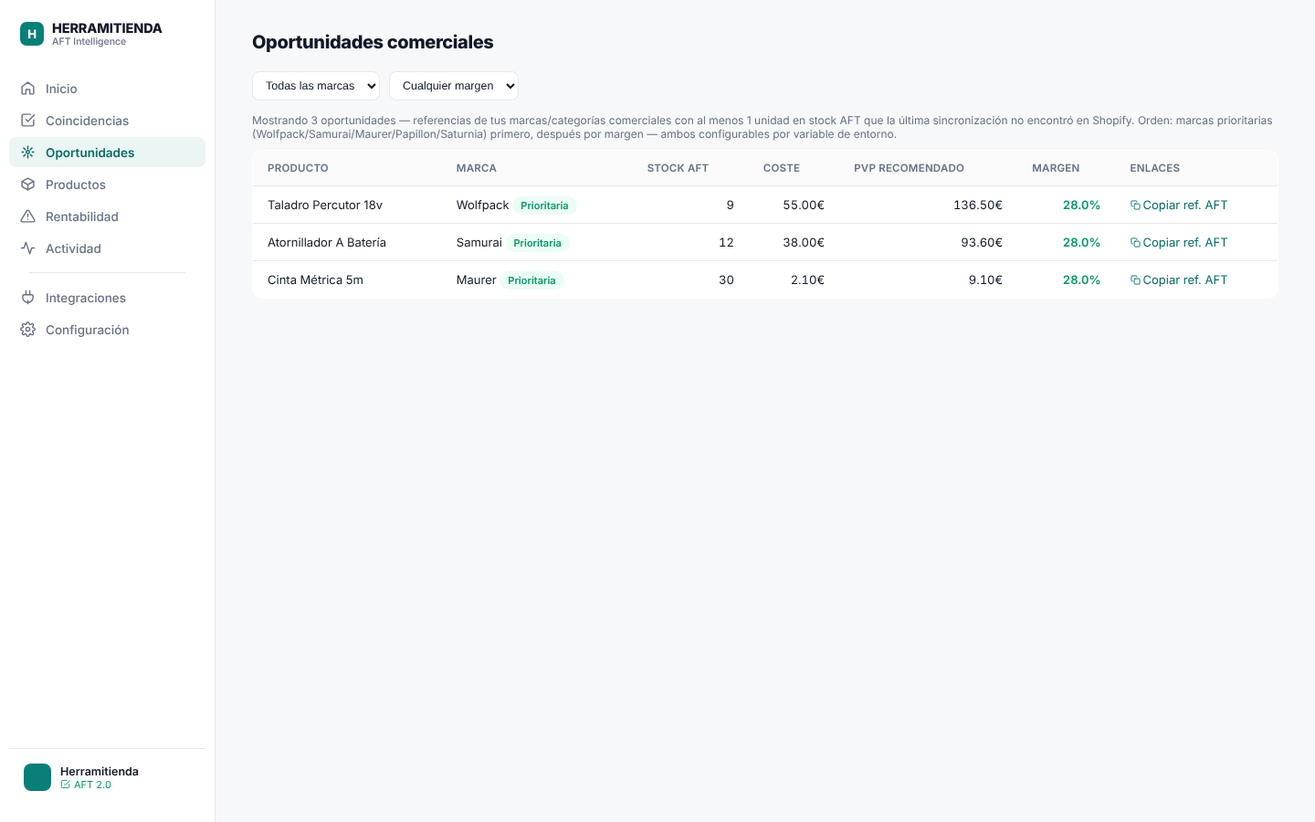
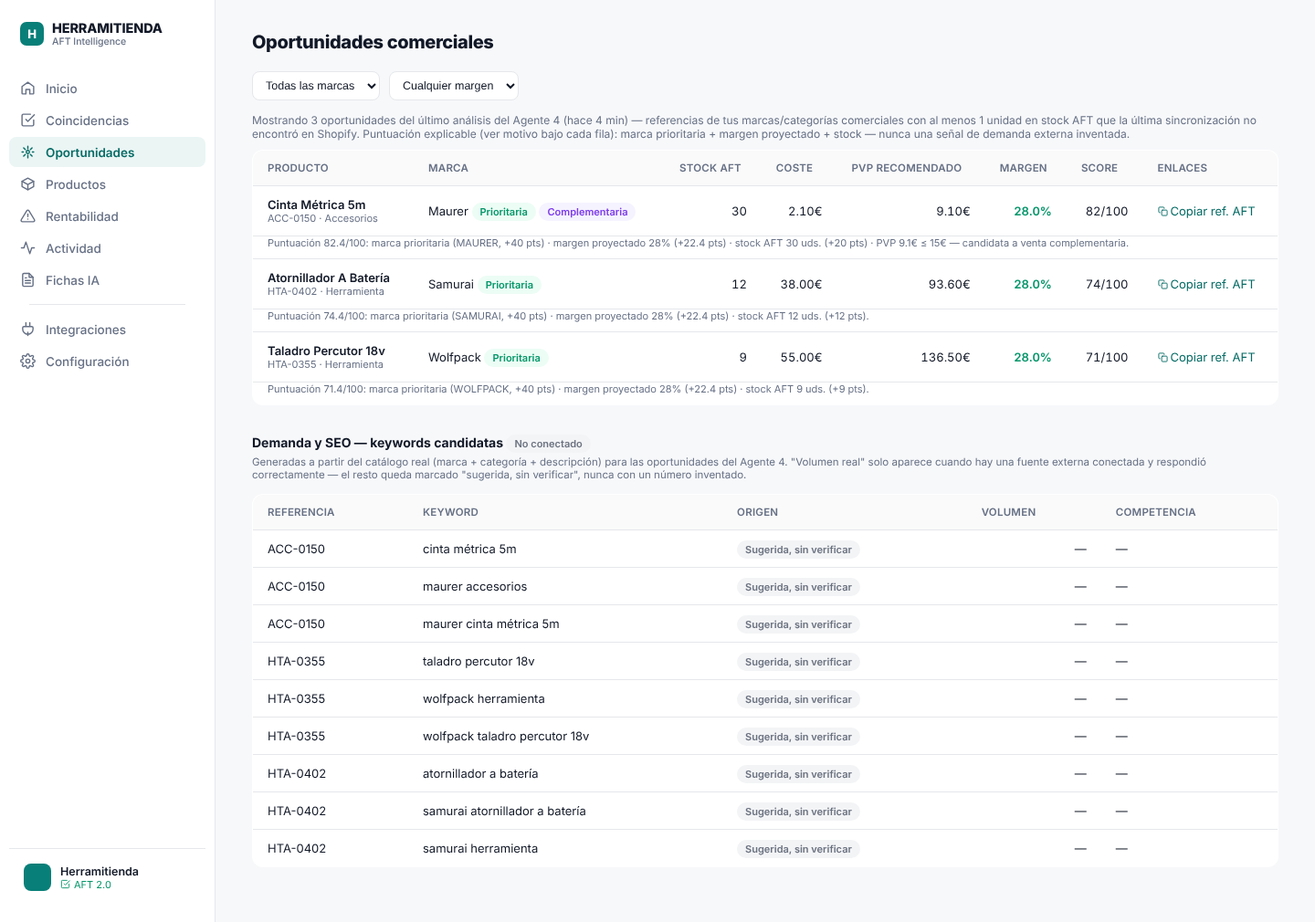
README actualizado y capturas refrescadas para los Agentes 4, 5 y 6
Documenta la entrega de inteligencia comercial (oportunidades, demanda/SEO,
fichas con IA) como agentes independientes y auditables, recuperando la
inteligencia de la primera versión del panel sin volver a su diseño:

- Sección 2: nuevas filas de estado verificable para los tres agentes y el
  pipeline extendido (ahora 7 etapas).
- Sección 3: diagrama y candado compartido actualizados a los 8 procesos
  reales (antes 5).
- Sección 4: Oportunidades deja de describirse como "reglas integradas en
  el agente 2a" (ya no es así) y pasa a tabla + detalle propio, igual que
  Demanda/SEO y Fichas con IA (nuevas), incluyendo su comportamiento
  explícito "No conectado" sin DataForSEO/Anthropic y la revisión humana
  obligatoria de fichas (nunca publica en Shopify).
- Sección 6: nuevas filas de QA funcional para los tres agentes (puntuación
  explicable, degradación de Demanda sin fuente real, los 5 escenarios de
  Fichas IA incluyendo aprobar/rechazar/editar).
- Sección 7/9: nueva captura de Fichas IA, pies de foto actualizados,
  nuevos endpoints (oportunidades/demanda/fichas-run + aprobar/rechazar/
  editar) y "Límites actuales" honesto sobre DataForSEO/Anthropic sin
  validar contra cuentas reales.

Además, corrige el estado vacío de la página Fichas IA en
buildDashboardHtml.js: cuando la ejecución terminó en "no_conectado" con
candidatos reales encontrados, el mensaje ahora dice explícitamente que
falta el proveedor de IA (antes daba a entender, de forma engañosa, que
[…]

diff --git a/src/buildDashboardHtml.js b/src/buildDashboardHtml.js
@@ -371,10 +371,13 @@ function filaFicha(f){
   '</div>';
 }
 const fichasBorradoresSeguro = fichasBorradores || [];
+const fichasEmptyMotivo = ultimaFichas && ultimaFichas.status === 'no_conectado'
+  ? 'El último análisis encontró ' + (ultimaFichas.total_candidatos || 0) + ' candidato(s) del Agente 4, pero no generó ningún borrador: no hay proveedor de IA conectado (ANTHROPIC_API_KEY). Nunca se presenta una plantilla como si fuera una ficha generada por IA.'
+  : 'El último análisis no generó ningún borrador (sin oportunidades del Agente 4 pendientes de ficha, o todas ya tienen una en revisión/aprobada).';
 const fichasHtml = ultimaFichas
   ? (fichasBorradoresSeguro.length
       ? fichasBorradoresSeguro.map(filaFicha).join('')
-      : '<div class="empty-state">El último análisis no generó ningún borrador (sin oportunidades del Agente 4 pendientes de ficha, o todas ya tienen una en revisión/aprobada).</div>')
+      : '<div class="empty-state">' + esc(fichasEmptyMotivo) + '</div>')
   : '<div class="empty-state">El agente de fichas todavía no se ha ejecutado. Lánzalo desde Integraciones.</div>';
 
 // --- Página Rentabilidad (prioridad 1): coste desglosado, transporte al

diff --git a/README.md b/README.md
@@ -15,6 +15,8 @@ Herramitienda vende en Shopify un catálogo que depende en parte de un proveedor
 
 **La solución**: una aplicación independiente, con su propia base de datos — nunca comparte infraestructura con AXION ni con el n8n compartido — que importa el catálogo de AFT, lee el catálogo completo de Shopify (no una muestra), cruza ambos de forma fiable (EAN, con SKU como respaldo inequívoco) y calcula el coste y el margen real de cada referencia con las reglas comerciales confirmadas por el negocio. Hacia Shopify, el sistema es de solo lectura salvo por un único camino de escritura, deliberadamente aislado en un solo archivo y **desactivado por defecto (modo simulación)**: la reposición automática de stock, que nunca toca precios ni costes — ver sección 4. En todo momento se muestra el origen de cada dato y se marca explícitamente lo que todavía no está confirmado, validado o conectado.
 
+Sobre esa misma base se ha recuperado la inteligencia comercial que existía en la primera versión del panel (oportunidades, demanda/SEO, fichas de producto con IA) — pero reconstruida como tres agentes independientes, auditables y nunca especulativos, en vez de las reglas inline y el score con valor por defecto que usaba el sistema original. Cada uno de los tres, si le falta una integración externa autorizada, declara explícitamente **"No conectado"** en vez de simular un resultado — ver sección 4.
+
 ## 2. Resultados verificables del proyecto
 
 Para ser honesto sobre qué está probado en producción real y qué está validado en banco de pruebas (nunca se ha lanzado un proceso real sin autorización explícita, por decisión de diseño):
@@ -25,7 +27,10 @@ Para ser honesto sobre qué está probado en producción real y qué está valid
 | Comparación de inventario Shopify ↔ AFT (solo lectura) | **En producción** | Ejecución real completada sobre el catálogo completo de Shopify |
 | Reposición automática de stock (único camino de escritura hacia Shopify) | **Implementado y validado en banco de pruebas — modo simulación (dry run)** | Postgres local + Shopify mockeado (nunca la tienda real) — sin SHOPIFY_WRITE_ENABLED ni el scope write_inventory concedido, no puede escribir nada aunque se ejecute |
 | Agente de rentabilidad (coste, portes reales, alertas, recomendaciones) | **Implementado y validado en banco de pruebas** | Postgres local + datos sintéticos — pendiente de su primera ejecución real (requiere autorización explícita) |
-| Pipeline automático (AFT → Shopify → Reposición → Rentabilidad) | **Implementado y validado** | Prueba de extremo a extremo local (servidor completo + llamadas HTTP reales) |
+| Agente de oportunidades comerciales (ranking explicable, persistido) | **Implementado y validado en banco de pruebas** | Postgres local + datos sintéticos — score, motivo y guardado en `oportunidades_resultados` verificados |
+| Agente de demanda y SEO | **Implementado y validado — sin fuente real conectada** | Postgres local; probado sin DataForSEO (candidatos "sin verificar"), con DataForSEO mockeado (éxito) y con fallo simulado (degradación a "sin verificar") — nunca contra una cuenta real |
+| Agente de fichas de producto con IA | **Implementado y validado — sin proveedor de IA conectado** | Postgres local; probado sin Anthropic (cero borradores), con Anthropic mockeado (generación + validación de calidad) y el ciclo Aprobar/Rechazar/Editar — nunca contra la API real |
+| Pipeline automático (AFT → Shopify → Reposición → Rentabilidad → Oportunidades → Demanda/SEO → Fichas IA) | **Implementado y validado** | Prueba de extremo a extremo local (servidor completo + llamadas HTTP reales) |
 | Programación diaria (Europe/Madrid) | **Implementado y validado, desactivado por defecto** | Lógica de fecha/hora y reintentos probada contra Postgres local (ver sección 6) |
 | Enlaces de producto (Shopify/AFT) | **Corregido y validado** | Antes enlazaban con el ID de variante, no de producto (daban página en blanco); corregido y verificado en escritorio y móvil |
 
@@ -43,12 +48,15 @@ Esta tabla es la misma distinción que hace el propio panel en su página "Integ
 └───────────┬───────────┘        └─────────────┬─────────────┘
             │ solo lectura                      │ solo lectura
             ▼                                    ▼
-      ┌─────────────────────────────────────────────┐
-      │ src/sync.js · src/reposicion.js · rentabilidad │
-      │   importación · matching EAN/SKU · coste      │
-      │   real (IVA/recargo/portes) · rentabilidad     │
-      └───────────────────────┬───────────────────────┘
-                               ▼
+      ┌───────────────────────────────────────────────────┐
+      │ src/sync.js · src/reposicion.js · src/rentabilidad.js │
+      │ src/oportunidades.js · src/demanda.js · src/fichasIa.js │
+      │   importación · matching EAN/SKU · coste real          │
+      │   (IVA/recargo/portes) · rentabilidad · oportunidades  │
+      │   · demanda/SEO (DataForSEO opcional) · fichas con IA  │
+      │   (Anthropic opcional, revisión humana obligatoria)    │
+      └───────────────────────────┬───────────────────────────┘
+                                    ▼
                  ┌─────────────────────────┐
                  │   hmt-db (PostgreSQL)     │
                  │   independiente de n8n     │
@@ -75,7 +83,7 @@ por defecto) se detalla en la sección 4, no en este diagrama.*
 - **Base de datos propia** (`hmt-db`), separada de la del n8n compartido: ni comparte esquema ni puede verse afectada por cambios en otros workflows.
 - **Un único camino de escritura hacia Shopify, aislado y desactivado por defecto.** `src/shopifyClient.js` sigue siendo 100% lectura (paginación completa de variantes, búsqueda por EAN/SKU, listado de productos) — ninguna mutación vive ahí. Toda la capacidad real de escritura del repositorio está en un solo archivo pequeño, `src/shopifyWriteClient.js`, usado exclusivamente por la reposición automática de stock (Agente 2, paso 2): nunca se llama sin que `SHOPIFY_WRITE_ENABLED=true` esté definido explícitamente **y** la app tenga el scope `write_inventory` concedido (comprobado en cada ejecución, nunca asumido). Mientras cualquiera de las dos condiciones no se cumpla, ese paso solo simula la escritura y la registra — nunca llama a Shopify para escribir de verdad. Ni ese ni ningún otro camino del código toca precios ni costes.
 - **Trabajo en segundo plano con recuperación**: la importación AFT y la comparación con Shopify devuelven `202` inmediato y procesan en segundo plano, con progreso real consultable por *polling* — pensado para catálogos de miles de referencias sin depender de una única petición HTTP larga ni perder el progreso si el servicio se reinicia.
-- **Candado compartido entre los cinco procesos** (importación AFT, comparación, reposición, rentabilidad, pipeline — `haySolapamiento()`): lanzar cualquiera de ellos falla con `409` si otro sigue en marcha — nunca se solapan, y un proceso `running` más antiguo de 2 horas se trata como interrumpido (p. ej. por un reinicio) y se desbloquea solo.
+- **Candado compartido entre los ocho procesos** (importación AFT, comparación, reposición, rentabilidad, oportunidades, demanda, fichas IA, pipeline — `haySolapamiento()`): lanzar cualquiera de ellos falla con `409` si otro sigue en marcha — nunca se solapan, y un proceso `running` más antiguo de 2 horas se trata como interrumpido (p. ej. por un reinicio) y se desbloquea solo.
 
 ## 4. Agentes implementados y estado real de cada uno
 
@@ -87,11 +95,35 @@ Para evitar cualquier ambigüedad sobre qué es autónomo y qué no:
 | 2a | **Comparación de inventario Shopify ↔ AFT** | Sí — proceso propio (`sync_runs`), **solo lectura** hacia Shopify | Operativo, en producción |
 | 2b | **Reposición automática de stock** (paso obligatorio del Agente 2, justo después de 2a) | Sí — proceso propio (`reposicion_runs` / `reposicion_eventos`), con el **único camino de escritura real hacia Shopify de todo el repositorio** | Implementado y validado — **en modo simulación (dry run) hasta autorización expresa**, ver detalle abajo |
 | 3 | **Rentabilidad** | Sí — proceso propio (`rentabilidad_runs`), solo lee `hmt-db` (no vuelve a llamar a AFT ni a Shopify) | Implementado y validado; pendiente de primera ejecución real |
-| 4 | **Oportunidades comerciales** | **No es un agente independiente.** Es un conjunto de reglas de negocio (marca prioritaria, categoría, stock mínimo, margen) aplicadas **dentro** de la comparación Shopify ↔ AFT, mostradas en su propia pestaña del dashboard | Reglas operativas, integradas en el agente 2a |
-| 5 | **Pipeline completo** | Es el **orquestador** de 1 → 2a → 2b → 3 en secuencia, no un agente nuevo | Implementado y validado |
-| 6 | **Inteligencia artificial generativa** (fichas automáticas, recomendaciones de SEO) | No implementada | **No conectada** — no existe ningún cliente de IA en este repositorio; el panel lo marca explícitamente como "No conectado" en vez de simular resultados |
+| 4 | **Oportunidades comerciales** | Sí — proceso propio (`oportunidades_runs` / `oportunidades_resultados`), **solo lee `hmt-db`**, no vuelve a llamar a AFT ni a Shopify | Implementado y validado — ranking explicable, con historial |
+| 5 | **Demanda y SEO** | Sí — proceso propio (`demanda_runs` / `demanda_resultados`), consume las oportunidades del Agente 4 y, si hay credenciales, DataForSEO | Implementado y validado — **"No conectado" por defecto** (sin DataForSEO), ver detalle abajo |
+| 6 | **Fichas de producto con IA** | Sí — proceso propio (`fichas_runs` / `fichas_borradores`), consume AFT + oportunidades del Agente 4 y, si hay credencial, la API de Anthropic | Implementado y validado — **"No conectado" por defecto** (sin API key), nunca publica en Shopify, ver detalle abajo |
+| 7 | **Pipeline completo** | Es el **orquestador** de 1 → 2a → 2b → 3 → 4 → 5 → 6 en secuencia, no un agente nuevo | Implementado y validado |
 
-La página **Integraciones** del dashboard refleja esta misma tabla en tiempo real: los agentes 1, 2a, 2b, 3 y el pipeline tienen botón de ejecución propio; la IA aparece en una lista aparte, marcada "No conectado".
+La página **Integraciones** del dashboard refleja esta misma tabla en tiempo real: los siete procesos (1, 2a, 2b, 3, 4, 5, 6) y el pipeline tienen botón de ejecución propio; demanda y fichas IA muestran además un badge "No conectado" cuando no hay integración externa configurada.
+
+**Oportunidades comerciales (4), en detalle** — `src/oportunidades.js`, invocado manualmente (`POST /api/oportunidades-run`), desde el pipeline o desde Integraciones:
+
+- Universo: referencias de AFT marcadas `es_oportunidad_comercial` que **todavía no están en Shopify** (`shopify_match.estado = 'no_encontrado'`) y con stock de AFT por encima del mínimo configurado — nunca una referencia ya publicada.
+- Marcas prioritarias (Wolfpack, Samurai, Maurer, Papillon, Saturnia) y categoría se consideran junto con el margen proyectado (PVP de AFT, mismo cálculo de coste que rentabilidad), el stock disponible y el PVP para detectar candidatas a venta complementaria (umbral compartido con el Agente 3).
+- **Puntuación explicable, nunca una caja negra**: `calcularOportunidad()` devuelve un `score` de 0 a 100 y un `motivo` en texto, construido concatenando literalmente la contribución de cada componente (p. ej. *"Puntuación 82/100: marca prioritaria (MAURER, +40 pts) · margen proyectado 45% (+36 pts) · stock AFT 25 uds. (+20 pts)."*). Pesos y umbrales son variables de entorno (`OPORTUNIDADES_*`), nunca constantes ocultas.
+- Resultado completo (ref, score, motivo, marca prioritaria, candidata complementaria, fecha) persistido en `oportunidades_resultados`, con historial de ejecuciones en `oportunidades_runs`.
+
+**Demanda y SEO (5), en detalle** — `src/demanda.js`, invocado manualmente (`POST /api/demanda-run`), desde el pipeline o desde Integraciones:
+
+- Genera hasta 3 keywords candidatas por referencia (marca+categoría, descripción, marca+descripción) a partir de las oportunidades del Agente 4 — **nunca a partir de una API externa**, siempre del catálogo real.
+- Sin `DATAFORSEO_LOGIN`/`DATAFORSEO_PASSWORD`: la ejecución termina con `status = 'no_conectado'` y **todas** las keywords quedan marcadas "sugerida, sin verificar", con volumen y competencia en `NULL` — nunca un número inventado.
+- Con credenciales: consulta volumen y competencia reales contra DataForSEO; si la llamada falla, degrada con gracia (todas las keywords vuelven a "sin verificar" y el error queda registrado), nunca deja una mezcla ambigua entre dato real y simulado.
+- Tope de coste por ejecución configurable (`DEMANDA_MAX_KEYWORDS`, 50 por defecto). Resultado persistido en `demanda_resultados`, con el origen (`catalogo` vs `dataforseo`) y si está `verificado` siempre explícitos.
+
+**Fichas de producto con IA (6), en detalle** — `src/fichasIa.js`, invocado manualmente (`POST /api/fichas-run`), desde el pipeline o desde Integraciones:
+
+- Universo: oportunidades del Agente 4 que todavía no tienen una ficha `pendiente` o `aprobado` — una ficha `rechazado` sí vuelve a ser candidata en la siguiente ejecución, para no bloquear una referencia por un borrador descartado.
+- Sin `ANTHROPIC_API_KEY`: la ejecución termina con `status = 'no_conectado'` y **genera cero borradores** — nunca una plantilla rellenada a mano presentada como si fuera una ficha generada por IA.
+- Con credencial: llama a la API de Mensajes de Anthropic (modelo configurable, `FICHAS_MAX_TOKENS` acotado) pidiendo título, descripción, atributos y metadatos SEO en JSON estricto.
+- **Validación de calidad antes de guardar, nunca en silencio**: `validarCalidad()` comprueba longitud de título/descripción/metadatos, presencia de la marca, keywords SEO no vacías y ausencia de marcadores de relleno (`[...]`, `TODO`, `lorem ipsum`). Un borrador que no pasa se guarda igualmente (para revisión humana) pero queda marcado `calidad_validada = false` con el motivo exacto visible en el dashboard.
+- **Revisión humana obligatoria, nunca publicación automática**: desde el dashboard (`Aprobar` / `Rechazar` / `Editar`, `POST /api/fichas/:id/aprobar|rechazar|editar`) solo se actualiza `fichas_borradores` en PostgreSQL — en ningún punto de ese código existe una llamada a Shopify. Publicar en la tienda, si alguna vez se decide automatizarlo, sería un cambio futuro explícito y separado.
+- Tope de borradores por ejecución configurable (`FICHAS_MAX_POR_EJECUCION`, 10 por defecto).
 
 **Reposición automática de stock (2b), en detalle** — único camino de escritura de todo el repositorio, vive en `src/shopifyWriteClient.js` (nunca en `src/shopifyClient.js`, que sigue siendo 100% lectura) y solo lo invoca `src/reposicion.js`:
 
@@ -138,6 +170,9 @@ Ninguna corrección de esta fase se ha probado directamente contra producción. 
 | Reintento controlado del pipeline programado | Simulación de una ejecución de hoy en error → confirmado que el siguiente ciclo reintenta; una ejecución de hoy con éxito → confirmado que no se repite |
 | Enlaces de producto | Producto con varias variantes (debe enlazar al producto, no a la variante), fila sin ID de producto guardado (debe mostrar el aviso, no un enlace roto) |
 | Reposición automática de stock | Shopify y Shopify Write mockeados por completo (nunca la tienda real): confirmado que sin `SHOPIFY_WRITE_ENABLED` NUNCA se llama a la mutación; que con la variable activa pero sin el scope `write_inventory` tampoco se llama (se queda en dry run); que con ambas condiciones sí se llama, con la cantidad absoluta correcta (nunca sumada) y el valor de comparación (`changeFromQuantity`); que un error de Shopify en una referencia no aborta el resto del lote; que una verificación posterior incorrecta se marca aparte; y que las coincidencias ambiguas, bloqueadas o con stock de AFT negativo nunca se tocan ni aparecen en el historial |
+| Oportunidades comerciales (puntuación) | Casos de marca prioritaria vs no prioritaria, margen alto/bajo/en el umbral, stock alto/bajo — verificando que `score` y `motivo` coinciden exactamente con los componentes esperados, y que la candidata complementaria usa el mismo umbral de PVP que rentabilidad |
+| Demanda y SEO | Tres escenarios: sin `DATAFORSEO_LOGIN`/`DATAFORSEO_PASSWORD` (0 verificadas, todas "sin verificar"); con DataForSEO mockeado respondiendo con éxito (coincidencias marcadas `verificado=true` con número real); con DataForSEO mockeado fallando (degradación completa a "sin verificar" + `error_message` registrado) — más la ruta HTTP real de extremo a extremo |
+| Fichas de producto con IA | Cinco escenarios: sin `ANTHROPIC_API_KEY` (0 borradores, `status='no_conectado'`); `validarCalidad()` unitario (ficha válida, sin marca, título corto, con marcador de relleno, sin keywords); generación con Anthropic mockeado (nunca la API real) + validación de calidad; Aprobar/Rechazar/Editar (solo `UPDATE` en PostgreSQL, nunca Shopify); re-ejecución sin duplicar fichas `pendiente`/`aprobado` (una `rechazado` sí vuelve a ser candidata) — más la ruta HTTP real de extremo a extremo, incluida la comprobación de que el candado compartido bloquea con 409 otro agente mientras fichas está en curso |
 | Extremo a extremo | Servidor real arrancado en local, peticiones HTTP reales con Basic Auth a `/`, `/status`, `/healthz`, `POST /api/reposicion-run` y su `/estado` — incluida la comprobación de que el candado compartido bloquea con 409 otro agente mientras la reposición está en curso |
 
 **Decisiones técnicas que sostienen la fiabilidad de los datos**
@@ -156,7 +191,7 @@ Generadas en un entorno local con **datos sintéticos** (marcas, referencias y c
 **Coincidencias** — inventario AFT ↔ Shopify, solo coincidencias fiables:
 ![Coincidencias](docs/screenshots/02-coincidencias.png)
 
-**Oportunidades** — ranking comercial explicado, con copia de referencia AFT:
+**Oportunidades** — ranking comercial explicado del Agente 4 (score + motivo) y, debajo, las keywords candidatas del Agente 5 (siempre "sugerida, sin verificar" sin DataForSEO conectado):
 ![Oportunidades](docs/screenshots/03-oportunidades.png)
 
 **Productos** — catálogo completo de Shopify, proveedor identificado solo por coincidencia real, enlace directo al producto:
@@ -165,8 +200,11 @@ Generadas en un entorno local con **datos sintéticos** (marcas, referencias y c
 **Rentabilidad** — resumen ejecutivo, desglose de coste, pedido agrupado y recomendaciones de venta:
 ![Rentabilidad](docs/screenshots/05-rentabilidad.png)
 
-**Integraciones** — estado real de cada agente, con lo no conectado señalado aparte:
+**Integraciones** — estado real de cada agente (1 a 6) y del pipeline, con lo no conectado señalado aparte:
 ![Integraciones](docs/screenshots/06-integraciones.png)
+
+**Fichas IA** — borradores del Agente 6 con avisos de calidad y acciones Aprobar/Rechazar/Editar (ningún botón publica en Shopify):
+![Fichas IA](docs/screenshots/09-fichas-ia.png)
 
 **Vista móvil** (Inicio y Rentabilidad):
 
@@ -178,7 +216,7 @@ Este proyecto se ha construido con desarrollo asistido por IA (Claude Code) como
 
 - **Identificación del problema**: el diagnóstico de que el panel original mostraba funciones no conectadas como si lo estuvieran, y de que el cálculo de transporte no reflejaba los portes reales de AFT, partió de la revisión directa de los datos de producción — no de una suposición.
 - **Diseño de la solución y arquitectura funcional**: la decisión de separar esta aplicación del n8n compartido, de usar una base de datos propia, de mantener Shopify estrictamente en modo lectura, y de diseñar cada "agente" como un proceso auditable con su propio historial y candado compartido, son decisiones de arquitectura tomadas y validadas por quien lidera el proyecto.
-- **Reglas de negocio**: cada regla comercial implementada (portes reales por referencia, pedido agrupado sin tarifa inventada, marcas prioritarias, umbrales de margen y de producto complementario, qué hacer cuando un dato no está confirmado) viene de una decisión de negocio explícita, nunca de una suposición del asistente de IA.
+- **Reglas de negocio**: cada regla comercial implementada (portes reales por referencia, pedido agrupado sin tarifa inventada, marcas prioritarias, umbrales de margen y de producto complementario, qué hacer cuando un dato no está confirmado, cuándo un agente debe declararse "No conectado" en vez de simular un resultado) viene de una decisión de negocio explícita, nunca de una suposición del asistente de IA.
 - **Construcción asistida por IA**: la implementación del código, las migraciones de base de datos, los tests de validación y esta misma documentación se generaron con Claude Code, siempre a partir de instrucciones explícitas y revisadas antes de cada entrega.
 - **Integraciones**: AFT (API REST) y Shopify (Admin API GraphQL) se integraron respetando los límites de permisos y de *rate limiting* de cada API, con lectura paginada completa en vez de muestras parciales.
 - **Validación**: cada entrega se verificó contra una base de datos local con datos sintéticos antes de subirse — nunca se ha ejecutado un proceso real (importación, sincronización, rentabilidad o pipeline) sin autorización explícita, incluyendo la programación automática, que permanece desactivada por defecto.
@@ -202,7 +240,7 @@ Ver `.env.example` (plantilla sin valores reales). Se configuran directamente en
 
 ### Programación diaria automática — cómo activarla y comprobarla en Easypanel
 
-El pipeline completo (`POST /api/pipeline-run`, o el botón "Ejecutar pipeline completo" en Integraciones) encadena importación AFT → sincronización Shopify → reposición automática de stock (en dry run salvo autorización expresa, ver sección 4) → rentabilidad. **Desactivada por defecto** — sin la variable `PIPELINE_SCHEDULE_HORA_MADRID`, desplegar este código no ejecuta nada por sí solo.
+El pipeline completo (`POST /api/pipeline-run`, o el botón "Ejecutar pipeline completo" en Integraciones) encadena importación AFT → sincronización Shopify → reposición automática de stock (en dry run salvo autorización expresa, ver sección 4) → rentabilidad → oportunidades comerciales → demanda/SEO → fichas con IA. **Desactivada por defecto** — sin la variable `PIPELINE_SCHEDULE_HORA_MADRID`, desplegar este código no ejecuta nada por sí solo.
 
 1. En Easypanel, servicio `hmt-intelligence` → *Environment*, añade `PIPELINE_SCHEDULE_HORA_MADRID=10:00` (formato `HH:MM`, hora local de Europe/Madrid; cualquier hora es válida).
 2. Redeploy del servicio.
@@ -225,13 +263,19 @@ El pipeline completo (`POST /api/pipeline-run`, o el botón "Ejecutar pipeline c
 | `POST /api/sync-run` · `GET /api/sync-run/estado` | Comparación AFT ↔ Shopify (solo lectura, todas las referencias); al terminar, lanza automáticamente la reposición de stock |
 | `POST /api/reposicion-run` · `GET /api/reposicion-run/estado` | Reposición automática de stock de forma independiente (sobre el último `shopify_match` ya guardado, sin volver a leer Shopify) y su progreso — único endpoint de todo el repositorio que puede acabar escribiendo en Shopify, y solo si está explícitamente autorizado (ver sección 4) |
 | `POST /api/rentabilidad-run` · `GET /api/rentabilidad-run/estado` | Agente de rentabilidad (solo lee hmt-db) y su progreso |
+| `POST /api/oportunidades-run` · `GET /api/oportunidades-run/estado` | Agente 4 — oportunidades comerciales (solo lee hmt-db) y su progreso |
+| `POST /api/demanda-run` · `GET /api/demanda-run/estado` | Agente 5 — demanda y SEO (DataForSEO si está configurado, si no "No conectado") y su progreso |
+| `POST /api/fichas-run` · `GET /api/fichas-run/estado` | Agente 6 — generación de fichas con IA (Anthropic si está configurado, si no "No conectado") y su progreso |
+| `POST /api/fichas/:id/aprobar` · `POST /api/fichas/:id/rechazar` | Cambia el estado de un borrador en PostgreSQL — nunca llama a Shopify |
+| `POST /api/fichas/:id/editar` | Edita título/descripción/metadatos de un borrador a mano (JSON body) — solo PostgreSQL |
 | `POST /api/pipeline-run` · `GET /api/pipeline-run/estado` | Pipeline completo y su progreso, etapa a etapa |
 | `GET /healthz` | Health check sin autenticación |
 
 ### Límites actuales (honestos, no se ocultan)
 
 - **Reposición automática de stock en modo simulación**: implementada, validada y lista, pero en dry run hasta conceder el scope `write_inventory` y activar `SHOPIFY_WRITE_ENABLED=true` con autorización expresa — nunca se ha escrito en la tienda real.
-- **IA generativa no conectada**: no hay fichas automáticas, señales de demanda externa ni redacción de SEO — el panel lo marca como "No conectado" en cada sitio donde aplicaría.
+- **Demanda y SEO sin fuente real conectada**: implementado y validado, pero sin `DATAFORSEO_LOGIN`/`DATAFORSEO_PASSWORD` en producción solo genera candidatos de keyword del catálogo, siempre marcados "sugerida, sin verificar" — nunca un volumen de búsqueda inventado. Además, la integración con DataForSEO se construyó contra su documentación pública pero **todavía no se ha validado contra una cuenta real**; antes de confiar en el volumen/competencia que devuelva en producción, conviene verificar una respuesta real.
+- **Fichas de producto con IA sin proveedor conectado**: implementado y validado, pero sin `ANTHROPIC_API_KEY` en producción genera cero borradores — nunca una plantilla presentada como si fuera una ficha de IA. Incluso con la API conectada, ningún borrador se publica en Shopify automáticamente: la aprobación es siempre manual desde el dashboard.
 - **Pedido agrupado sin tarifa**: hasta que AFT confirme una tabla de tarifas por peso para pedidos agrupados, ese escenario se queda en "Pendiente de cotización" — por diseño, no por una limitación técnica a resolver.
 - **Coste de Shopify sin confirmar fiscalmente**: `shopify_match.shopify_cost` se guarda y se muestra, pero no se usa para calcular el margen hasta confirmar a mano si ya incluye IVA.
 - **Rentabilidad y pipeline sin ejecución real todavía**: implementados y validados en banco de pruebas; su primera ejecución contra datos reales de producción requiere autorización explícita, no se ha lanzado por iniciativa propia.
